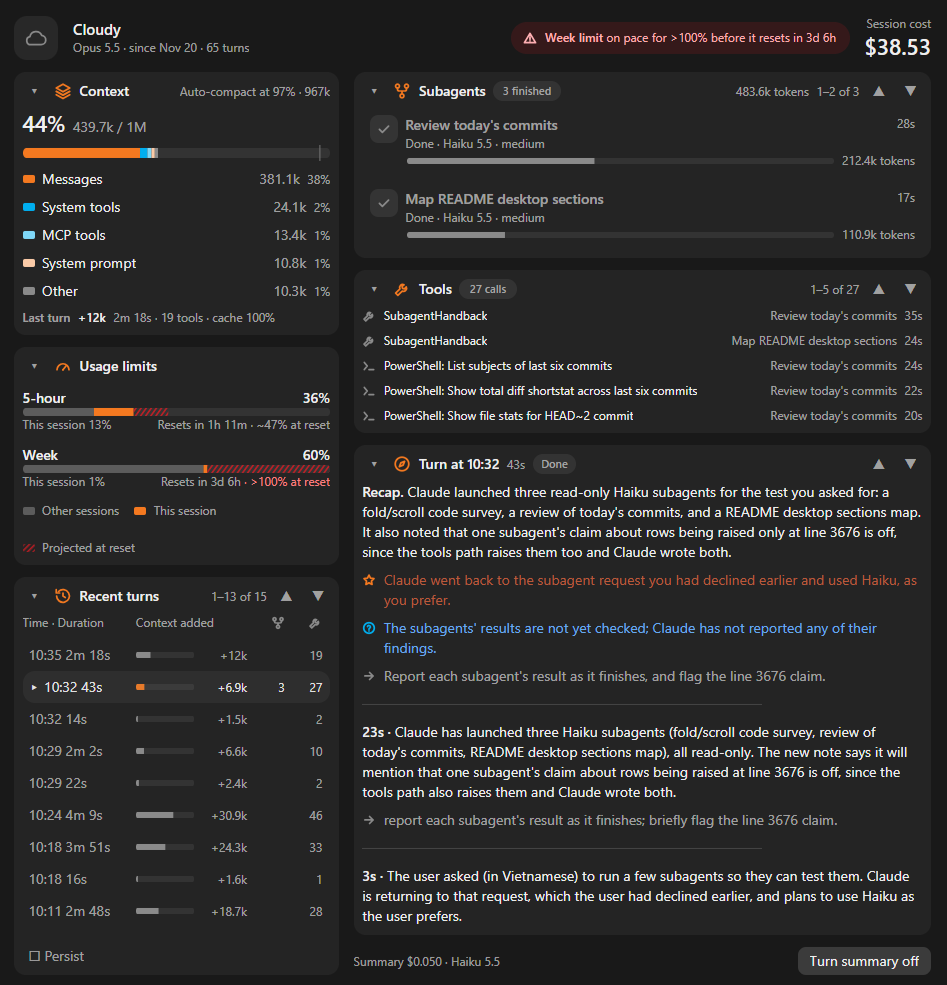
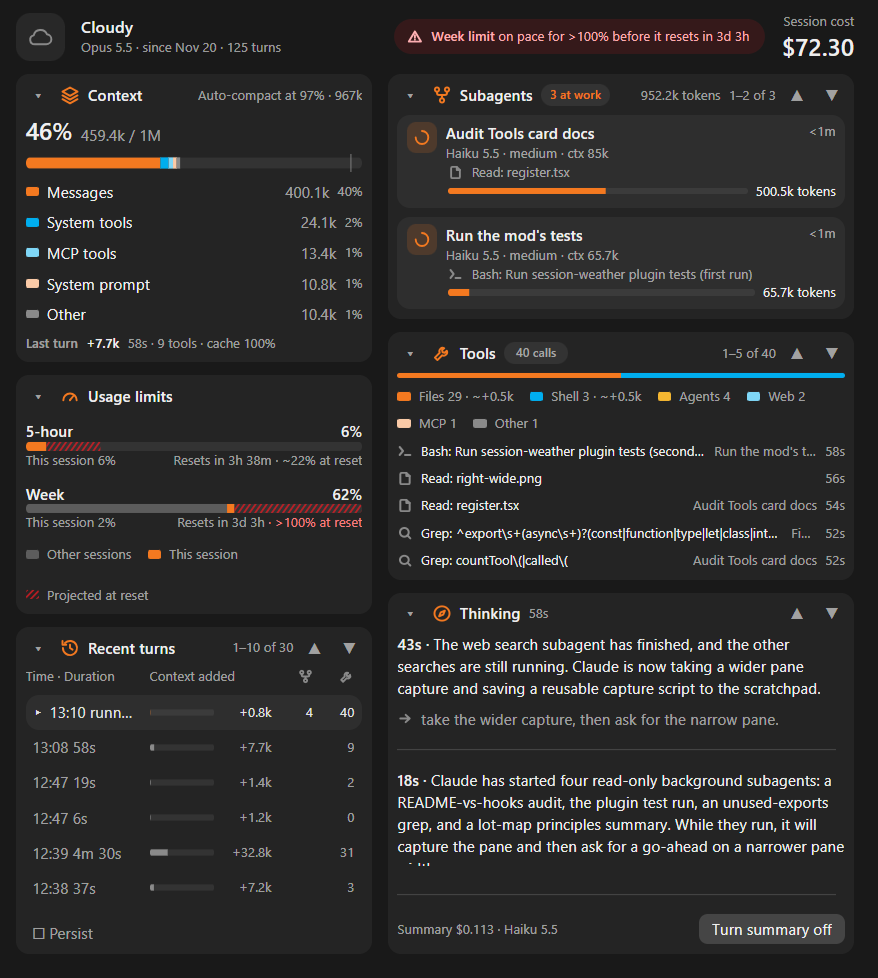
Retake the README's pictures, with the Tools bar and the cost line
Both pictures show the desktop in a turn with three subagents at work:
narrow, the subagents folded, the tools open with their bar of kinds and
what a call added to the context, the recent turns folded, and the
thinking card with its cost and switch on its last line; wide, the
context, the limits and thirty recent turns on the left, the subagents at
work, the tools and the thinking card on the right. Their alt texts and
the text around them say so.

Four names no other file uses are no longer exported: Called, kindsOf,
TOOL_KINDS with OTHER_KIND, and WindowFit.

diff --git a/session-weather/hooks/ui/look.tsx b/session-weather/hooks/ui/look.tsx
@@ -476,7 +476,7 @@ export const toolIconOf = (action: string): IconName => {
 // What kind of work a call was, by its tool, for the Tools card's bar: each
 // kind keeps its ink from turn to turn. A call is kept as its tool and what
 // it was aimed at (`actionOf`), so the tool is the text before the colon.
-export const TOOL_KINDS = [
+const TOOL_KINDS = [
   { name: 'Files', ink: '#F47920', tools: /^(?:Read|Edit|Write|MultiEdit|NotebookEdit|NotebookRead|Grep|Glob|LS|LSP)$/ },
   { name: 'Shell', ink: '#00AEEF', tools: /^(?:Bash|PowerShell|BashOutput|KillShell|Monitor)$/ },
   { name: 'Web', ink: '#7FD7F7', tools: /^(?:WebFetch|WebSearch)$/ },
@@ -484,7 +484,7 @@ export const TOOL_KINDS = [
   { name: 'Agents', ink: '#F5B731', tools: /^(?:Agent|Task|SendMessage|Workflow)$/ },
   { name: 'Skills', ink: '#B9A3F0', tools: /^(?:Skill|ToolSearch)$/ },
 ] as const
-export const OTHER_KIND = { name: 'Other', ink: INK.grey } as const
+const OTHER_KIND = { name: 'Other', ink: INK.grey } as const
 
 export const kindOf = (action: string) => {
   const tool = action.split(':')[0] ?? ''

diff --git a/session-weather/hooks/ui/updates.ts b/session-weather/hooks/ui/updates.ts
@@ -122,7 +122,7 @@ const layUpdates = (turn: Thinking | null, width: number, place: { line: number;
 // A window of known height, as the desktop's thinking card has: the `rows`
 // it holds, and what it spends besides the lines' own rows, a rule between
 // two updates and a gap under each line.
-export type WindowFit = { rows: number; ruleRows: number; lineGap: number }
+type WindowFit = { rows: number; ruleRows: number; lineGap: number }
 
 // The rows a line takes in a window that fits `fit`: its own, its gap, and
 // the rule over it where it opens an update below another.

diff --git a/session-weather/hooks/ui/cards.tsx b/session-weather/hooks/ui/cards.tsx
@@ -81,7 +81,7 @@ async function moveTools ($: EngineInterface, by: number, rows: number) {
 // those of the main loop added to the context (`~` where a share, or a call
 // with no figure, is in it). The bar stands by what they added once any has
 // a figure, else by how many.
-export const kindsOf = (calls: readonly TurnCall[]) => {
+const kindsOf = (calls: readonly TurnCall[]) => {
   const kinds = new Map<string, { name: string; ink: string; count: number; tokens: number; isRough: boolean }>()
 
   for (const call of calls) {

diff --git a/session-weather/hooks/growth.ts b/session-weather/hooks/growth.ts
@@ -14,7 +14,7 @@
 // Kept in the module's own memory: a reload costs a request's figures.
 
 // A call of the main loop, as its turn's row keeps it.
-export type Called = { at: number; text: string }
+type Called = { at: number; text: string }
 
 // A request's growth shared evenly among its calls when it made this many
 // at most: past them a large read and a short command would get the same

diff --git a/README.md b/README.md
@@ -25,35 +25,39 @@ next prompt's thinking comes through.
 The pane lays itself out by its width, and changes over as you drag it wider
 or narrower.
 
-![The Session Weather pane on the desktop under 90 columns: the sky and the session's cost, a tile each for the context and the two limits, a warning, the last turn, the subagents, the tools and the recent turns folded to their top line, and the thinking summary of a turn picked from the list, all in cards](session-weather/screenshot.png)
+![The Session Weather pane on the desktop under 90 columns: the sky and the session's cost, a tile each for the context and the two limits, a warning, the last turn, the subagents folded with three at work, the tools open with their bar of kinds and three calls, the recent turns folded, and the thinking summary of the current turn with its cost and switch on its last line, all in cards](session-weather/screenshot.png)
 
-Under 90 columns on the desktop, here with a turn of three subagents picked
-from the recent turns: the sky, the session's line and its cost across the
-top; a tile each for the context, the 5-hour limit and the weekly one; the
-warning that the week is on pace to run out; the last turn; the subagents,
-the tools and the recent turns, each folded to its top line and its gist
-(`3 finished`, `27 calls`, `15 turns`); and the thinking summary of the turn
-picked, its recap on top, taking the height they leave (see **On the
-desktop**). The terminal draws no images and keeps rows of text at that
-width: the weather on top (the sky, the context's fill and where
-auto-compact runs, the last turn, the 5-hour and weekly limits with this
-session's part of each in yellow, the session's cost), then Haiku's updates
-on Claude's thinking, newest first, each with its gist, a decision (★), what
-Claude takes as true unchecked (?) and its next step (→).
+Under 90 columns on the desktop, in a turn with three subagents at work:
+the sky, the session's line and its cost across the top; a tile each for
+the context, the 5-hour limit and the weekly one; the warning that the week
+is on pace to run out; the last turn; the subagents folded to their top
+line and its gist (`3 at work`); the tools open, `45 calls`, the bar of
+their kinds over its legend (`Files 31 · ~+4.9k`, `Shell 5 · ~+1k`,
+`Agents 4`, …) and the newest three, one with what it added to the context
+(`+1.2k`); the recent turns folded (`30 turns`); and the thinking summary of
+the current turn, taking the height they leave, what it cost and its switch
+on its last line (see **On the desktop**). The terminal draws no images and
+keeps rows of text at that width: the weather on top (the sky, the context's
+fill and where auto-compact runs, the last turn, the 5-hour and weekly
+limits with this session's part of each in yellow, the session's cost), then
+Haiku's updates on Claude's thinking, newest first, each with its gist, a
+decision (★), what Claude takes as true unchecked (?) and its next step (→).
 
-![The Session Weather pane on the desktop from 90 columns: the context, the limits and the recent turns as cards on the left, the subagents, the tools and the thinking summary of the turn picked on the right, the warning and the cost across the top](session-weather/screenshot-wide.png)
+![The Session Weather pane on the desktop from 90 columns: the context, the limits and the recent turns as cards on the left, the subagents at work, the tools with their bar of kinds and the thinking summary on the right, the warning and the cost across the top](session-weather/screenshot-wide.png)
 
-From 90 columns, here with the same turn picked: the sky, the session's
-line, the warning and the cost across the top; on the left, what fills the
-context, the limits (each with the pace it is on, `~47% at reset` or
-`>100% at reset`) and the recent turns, thirteen of fifteen with ▲ and ▼ to
-scroll the rest, the turn picked marked ▸ with its three subagents and 27
-tool calls, and the box that persists them under the table; on the right,
-the turn's subagents, two of three with all their tokens on the card's top
-line, its tool calls newest first, each with the subagent that made it, its
-thinking summary, and under it what the summary cost and its switch. Each
-card folds by ▾ on its top line. The terminal puts the weather in a column of its own on the left
-and the summary beside it (see **Layout** and **Wide layout**).
+From 90 columns, in the same turn: the sky, the session's line, the warning
+and the cost across the top; on the left, what fills the context, the
+limits (each with the pace it is on, `~22% at reset` or `>100% at reset`)
+and the recent turns, ten of thirty with ▲ and ▼ to scroll the rest, the
+current one marked ▸ with its four subagents and 40 tool calls, and the box
+that persists them under the table; on the right, the subagents, two of
+three at work with all their tokens on the card's top line, each with its
+model, effort and context, what it is at and its tokens; the tool calls,
+the bar of their kinds over its legend, then the newest first, each with the
+subagent that made it; and the thinking summary, what it cost and its
+switch on its last line. Each card folds by ▾ on its top line. The
+terminal puts the weather in a column of its own on the left and the
+summary beside it (see **Layout** and **Wide layout**).
 
 **Layout**
 
